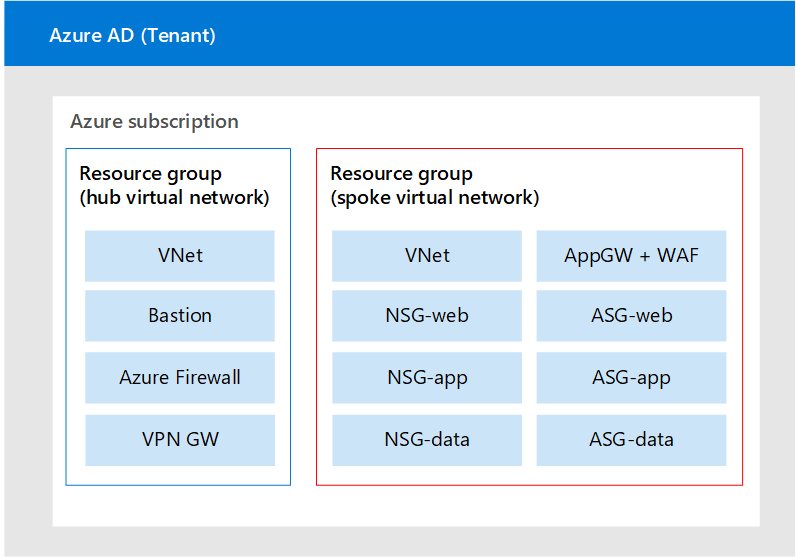
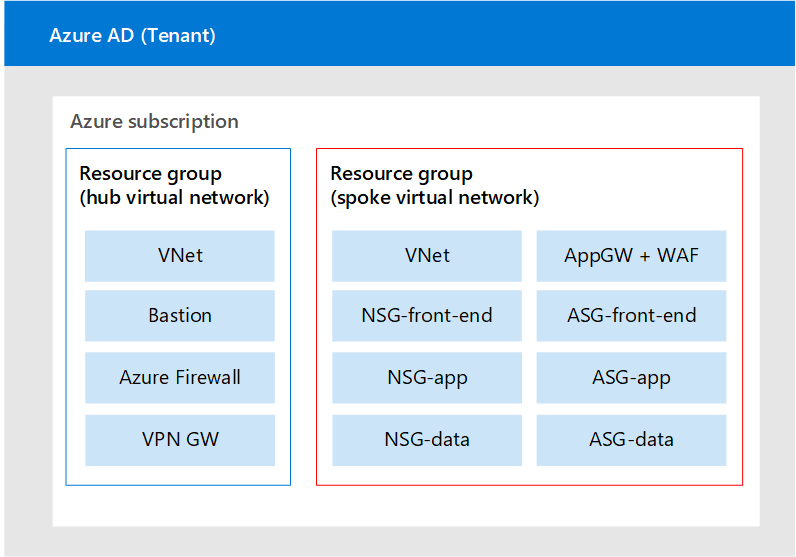
web to front end text and figure updates

Changed region(s): [[0.6935, 0.5494, 0.8744, 0.5799], [0.4523, 0.5494, 0.6332, 0.5799]]

diff --git a/zero-trust/azure-infrastructure-iaas.md b/zero-trust/azure-infrastructure-iaas.md
@@ -33,7 +33,7 @@ The following diagram shows a common reference architecture for IaaS-based workl
 In the diagram:
 
 - A spoke VNet includes components to support an IaaS application comprised of virtual machines.
-- The IaaS application is a three-tier application comprised of two virtual machines for each tier—front end, application, and data.
+- The IaaS application is a three-tier application comprised of two virtual machines for each tier: front end, application, and data.
 - Each tier is contained within a dedicated subnet with a dedicated network security group.
 - Each virtual machine role is assigned to an application security group corresponding to its role.
 - Access to the application is provided through an Application Gateway contained in its own subnet.
@@ -124,7 +124,7 @@ For a multi-tier virtual-machine based application, the recommendation is to cre
 
 In the diagram:
 
-- Each tier of the application is hosted in a dedicated subnet such as, web tier, app tier, and data tier.
+- Each tier of the application is hosted in a dedicated subnet such as, front end tier, app tier, and data tier.
 - A network security group is configured for each of these subnets.
 
 Configuring network security groups in a different way than shown above can result in incorrect configuration of some or all of the network security groups and can create issues in troubleshooting. It can also make it difficult to monitor and log.
@@ -143,7 +143,7 @@ Inside your workload, identify the specific virtual machine roles. Then, build a
 
 In the diagram:
 
-- Three application security groups are created to support this app, one for each tier web, app, and data.
+- Three application security groups are created to support this app, one for each tier: front end, app, and data.
 - Each virtual machine is assigned to the corresponding application security group for its role (red text in the diagram).
 
 For more information about application security groups and how to assign these to virtual machines, see [Azure application security groups overview](/azure/virtual-network/application-security-groups).
